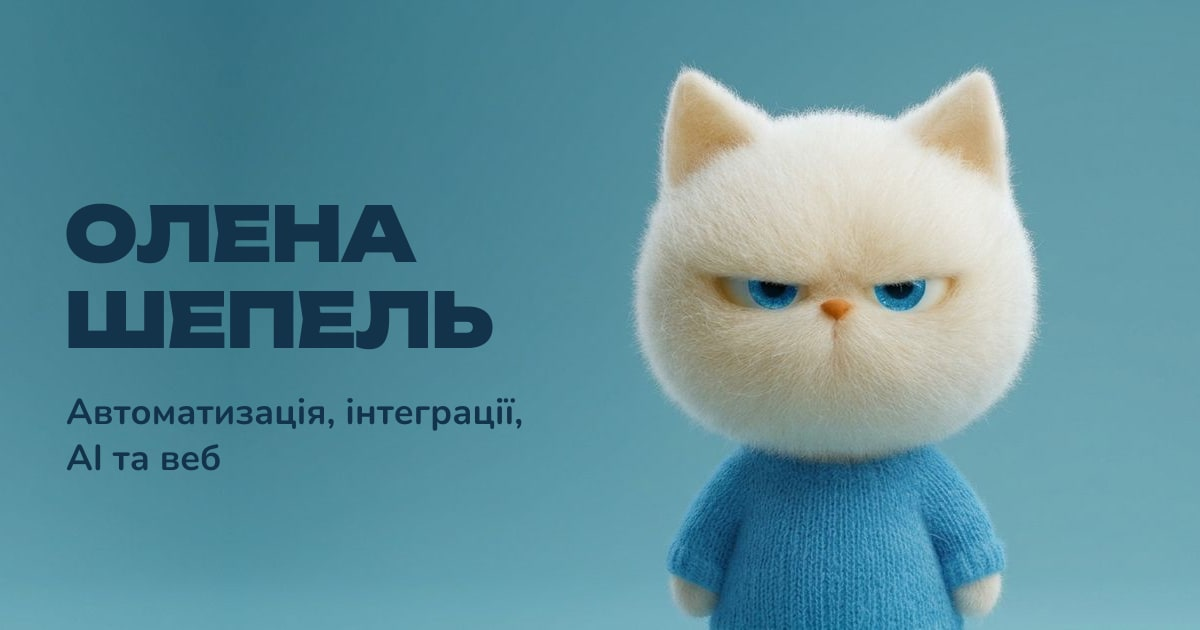
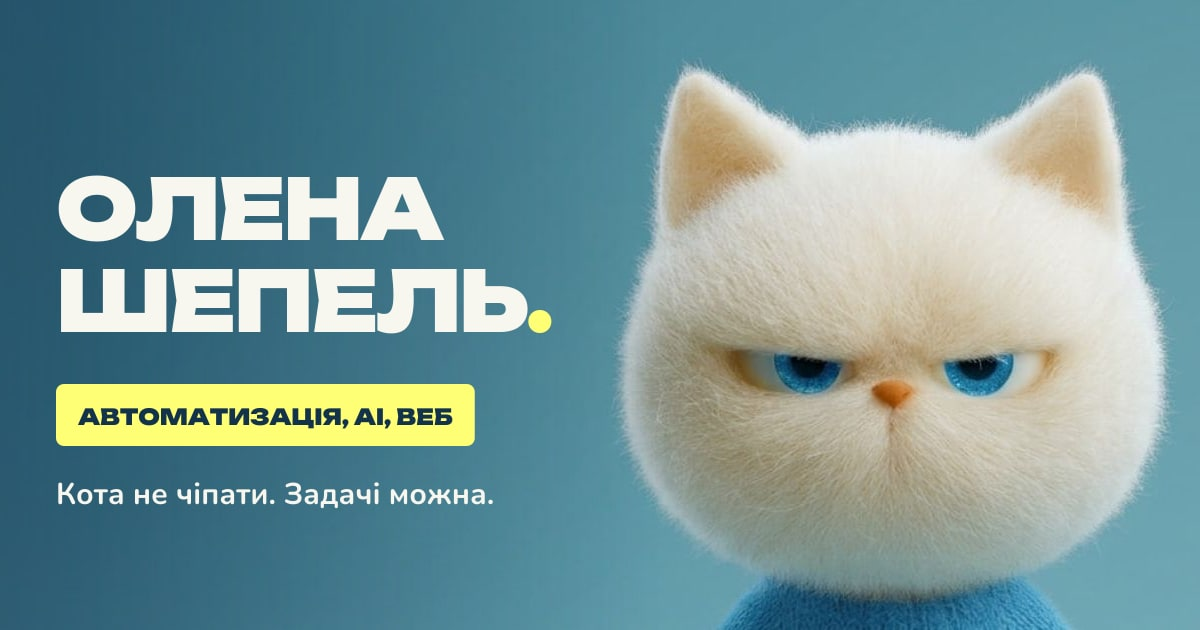
OG: нова картинка з кремовим текстом і жовтою плашкою

diff --git a/index.html b/index.html
@@ -13,12 +13,12 @@
 <meta property="og:title" content="Олена Шепель — автоматизація, інтеграції, AI та веб">
 <meta property="og:description" content="Допомагаю бізнесу налагоджувати процеси за допомогою автоматизації, інтеграцій, AI та веброзробки.">
 <meta property="og:url" content="https://cat-brand-eight.vercel.app/">
-<meta property="og:image" content="https://cat-brand-eight.vercel.app/assets/og.jpg">
+<meta property="og:image" content="https://cat-brand-eight.vercel.app/assets/og.jpg?v=2">
 <meta property="og:image:width" content="1200">
 <meta property="og:image:height" content="630">
 <meta property="og:image:alt" content="Пухнастий кремовий кіт у синьому светрі та ім'я Олена Шепель">
 <meta name="twitter:card" content="summary_large_image">
-<meta name="twitter:image" content="https://cat-brand-eight.vercel.app/assets/og.jpg">
+<meta name="twitter:image" content="https://cat-brand-eight.vercel.app/assets/og.jpg?v=2">
 <link rel="preconnect" href="https://fonts.googleapis.com">
 <link rel="preconnect" href="https://fonts.gstatic.com" crossorigin>
 <link href="https://fonts.googleapis.com/css2?family=Nunito:wght@400;600;700;800&family=Unbounded:wght@700;900&display=swap" rel="stylesheet">
